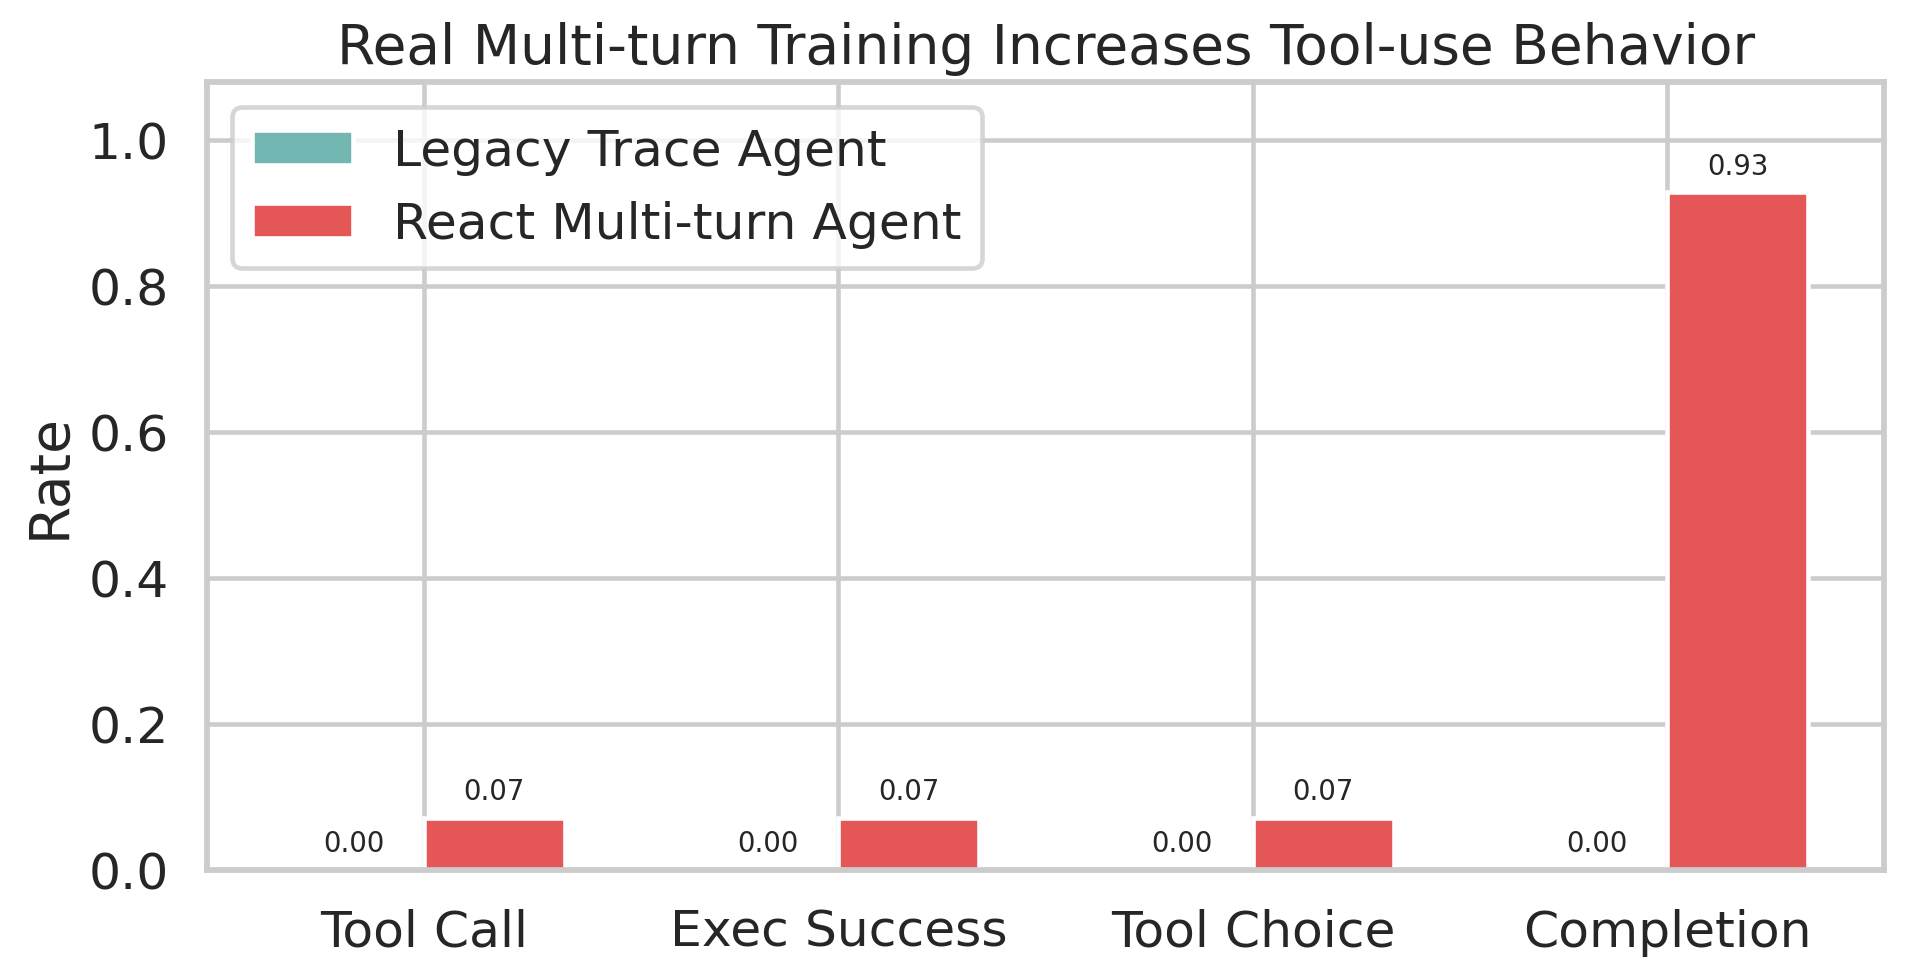
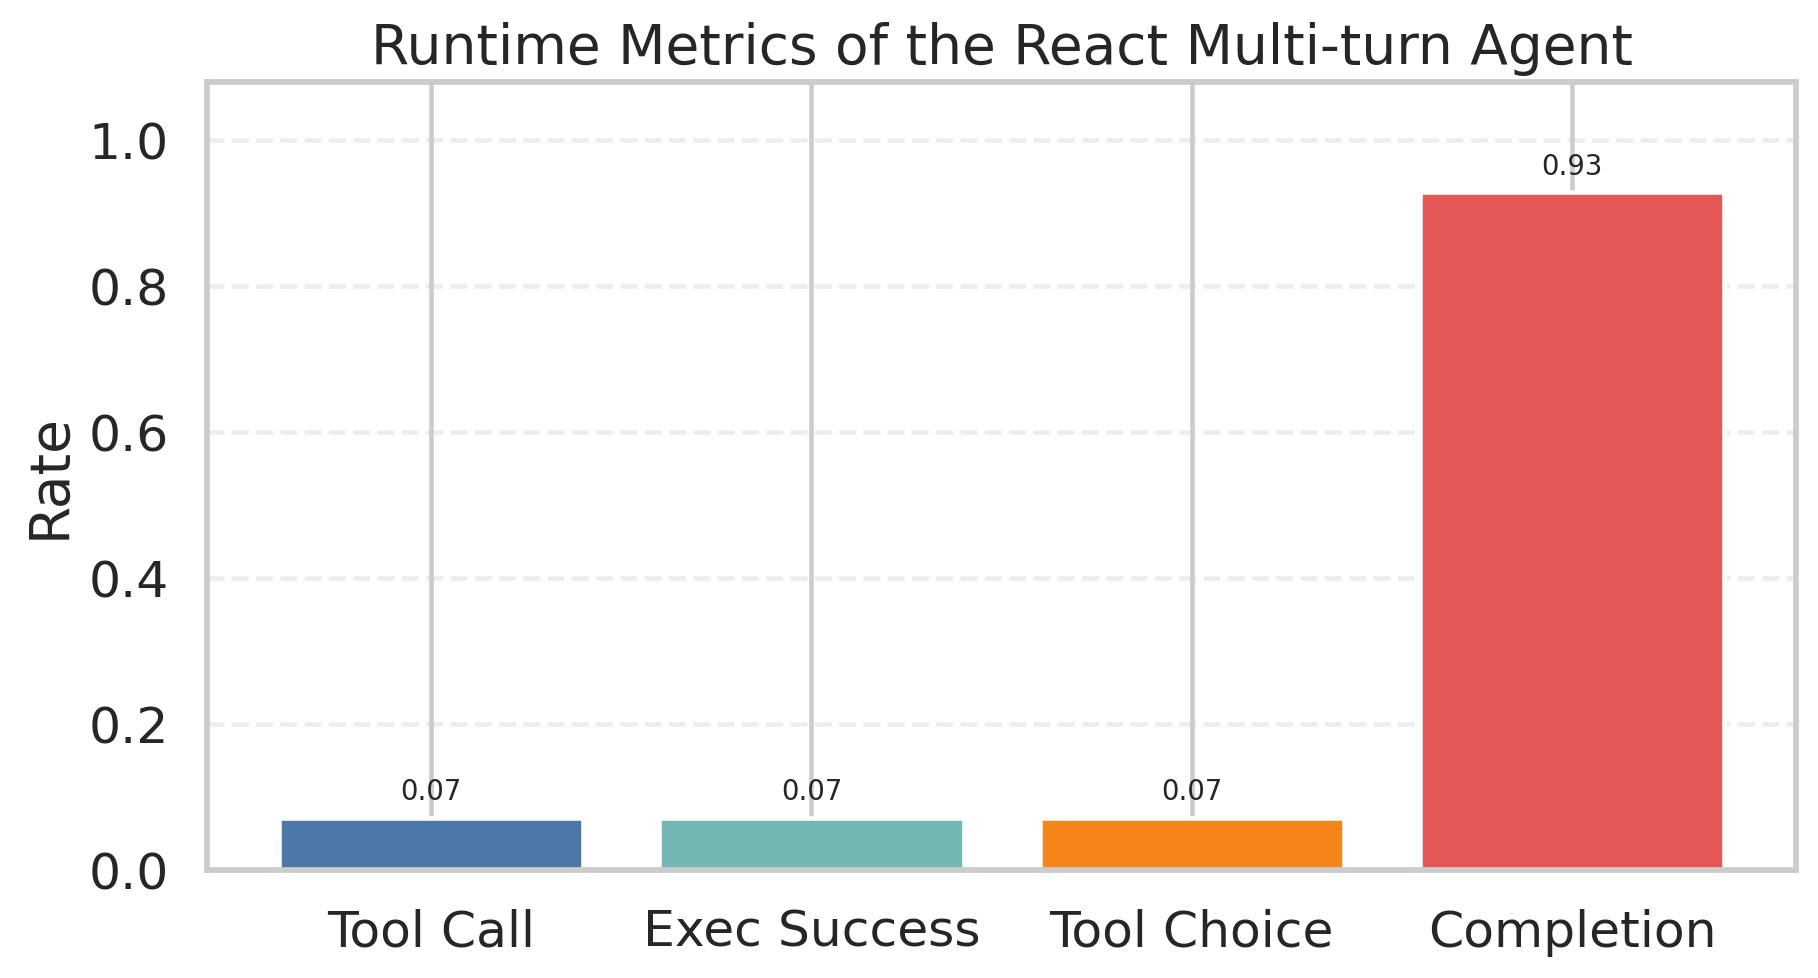
fix picture error

diff --git a/plot_results.py b/plot_results.py
@@ -69,19 +69,15 @@ def plot_agent_tool_metrics() -> None:
         "completion_rate",
     ]
     labels = ["Tool Call", "Exec Success", "Tool Choice", "Completion"]
-    v1 = [data["v1_legacy"]["tool_metrics"][m] for m in metrics]
     v2 = [data["v2_react"]["tool_metrics"][m] for m in metrics]
 
-    fig, ax = plt.subplots(figsize=(9.0, 4.8))
-    x = range(len(metrics))
-    width = 0.34
-    ax.bar([i - width / 2 for i in x], v1, width=width, label="Legacy Trace Agent", color="#72B7B2")
-    ax.bar([i + width / 2 for i in x], v2, width=width, label="React Multi-turn Agent", color="#E45756")
-    ax.set_xticks(list(x), labels)
+    fig, ax = plt.subplots(figsize=(8.6, 4.8))
+    colors = ["#4C78A8", "#72B7B2", "#F58518", "#E45756"]
+    ax.bar(labels, v2, color=colors)
     ax.set_ylabel("Rate")
     ax.set_ylim(0, 1.08)
-    ax.set_title("Real Multi-turn Training Increases Tool-use Behavior")
-    ax.legend(frameon=True, loc="upper left")
+    ax.set_title("Runtime Metrics of the React Multi-turn Agent")
+    ax.grid(True, axis="y", linestyle="--", alpha=0.35)
     annotate_bars(ax, "{:.2f}")
     save(fig, "agent_tool_metrics")
 

diff --git a/README.md b/README.md
@@ -244,7 +244,7 @@ The MedQuad adapter improves ROUGE-L over the base model on held-out medical QA.
 
 ### Agent tool-use metrics
 
-The real multi-turn ReAct training setup is clearly better than the legacy trace baseline under the real runtime protocol, although tool call rate is still low.
+The main agent result is the real multi-turn ReAct model. The older legacy trace setup is best understood as a formatting ablation, while the React agent is the one that actually matches the runtime protocol.
 
 ![Agent tool metrics](assets/figures/agent_tool_metrics.png)
 
@@ -263,7 +263,6 @@ The action turn is much shorter than the final-answer turn in the multi-turn tra
 ## Current Takeaway
 
 - Medical QA SFT works well on this small model.
-- Real multi-turn agent post-training is better than legacy single-turn trace imitation.
+- Real multi-turn agent post-training is the main deployable agent result.
 - After training the agent raise its tool calling rate, but it seems not enough.
 - A good next step is to strengthen action-centric supervision so that the model is rewarded more strongly for calling tools before answering.
-
